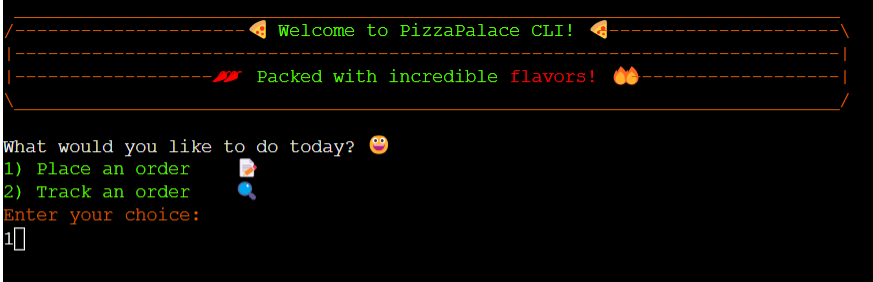
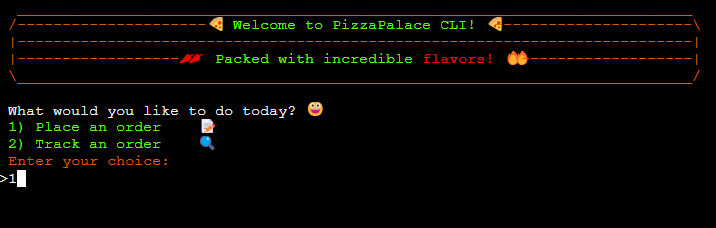
Adjust items indent order summary

Changed region(s): [[0.0, 0.0, 0.9832, 1.0]]

diff --git a/run.py b/run.py
@@ -529,9 +529,9 @@ def print_order_summary(order_dict):
                 len(f"{label}".ljust(indent)) + color_text("|", 15)
             split_str = [color_text(x, 220) for x in value.split(',')]
 
-            print(INDENT_ALL + color_text(f"{label}".ljust(indent) + "|", 15) +
+            print(INDENT_ALL + color_text(f"{label}".ljust(indent) + " |", 15) +
                   f" {split_str[0]}\n{align_space}" +
-                  f'\n {align_space}'.join(split_str[1:]))
+                  f'\n{align_space}'.join(split_str[1:]))
 
         elif label == 'Items':
             print(INDENT_ALL + color_text(f"{label}".ljust(indent) +
@@ -586,7 +586,7 @@ def update_orders_sheet(order):
         None
     """
     clear_console()
-    print(INDENT_ALL + color_text("Updating 'order' worksheet...", 220))
+    print(color_text("\n Updating 'order' worksheet...", 220))
     order_list_item = list(order.summary.values())
 
     ORDERS_SHEET.append_row(order_list_item)
